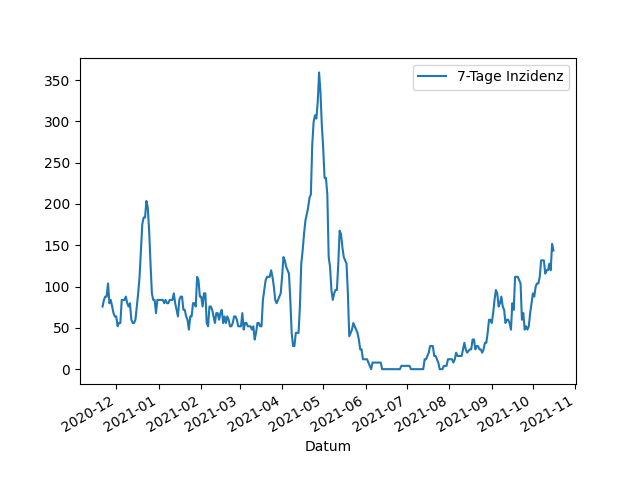
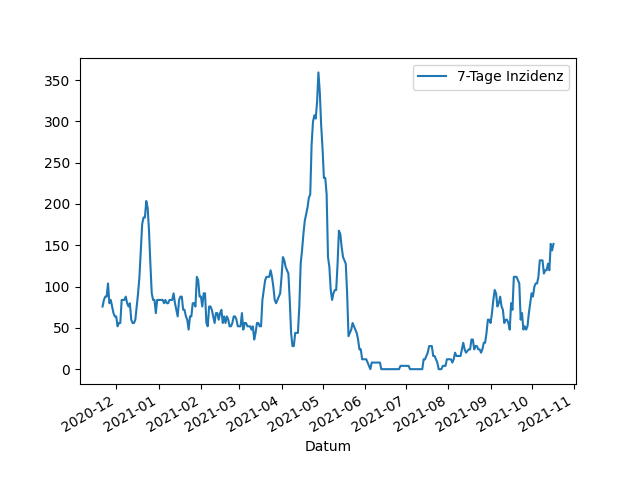
Update images

diff --git a/_includes/aktuelle_inzidenz.md b/_includes/aktuelle_inzidenz.md
@@ -1,1 +1,1 @@
-143,7
+151,7
